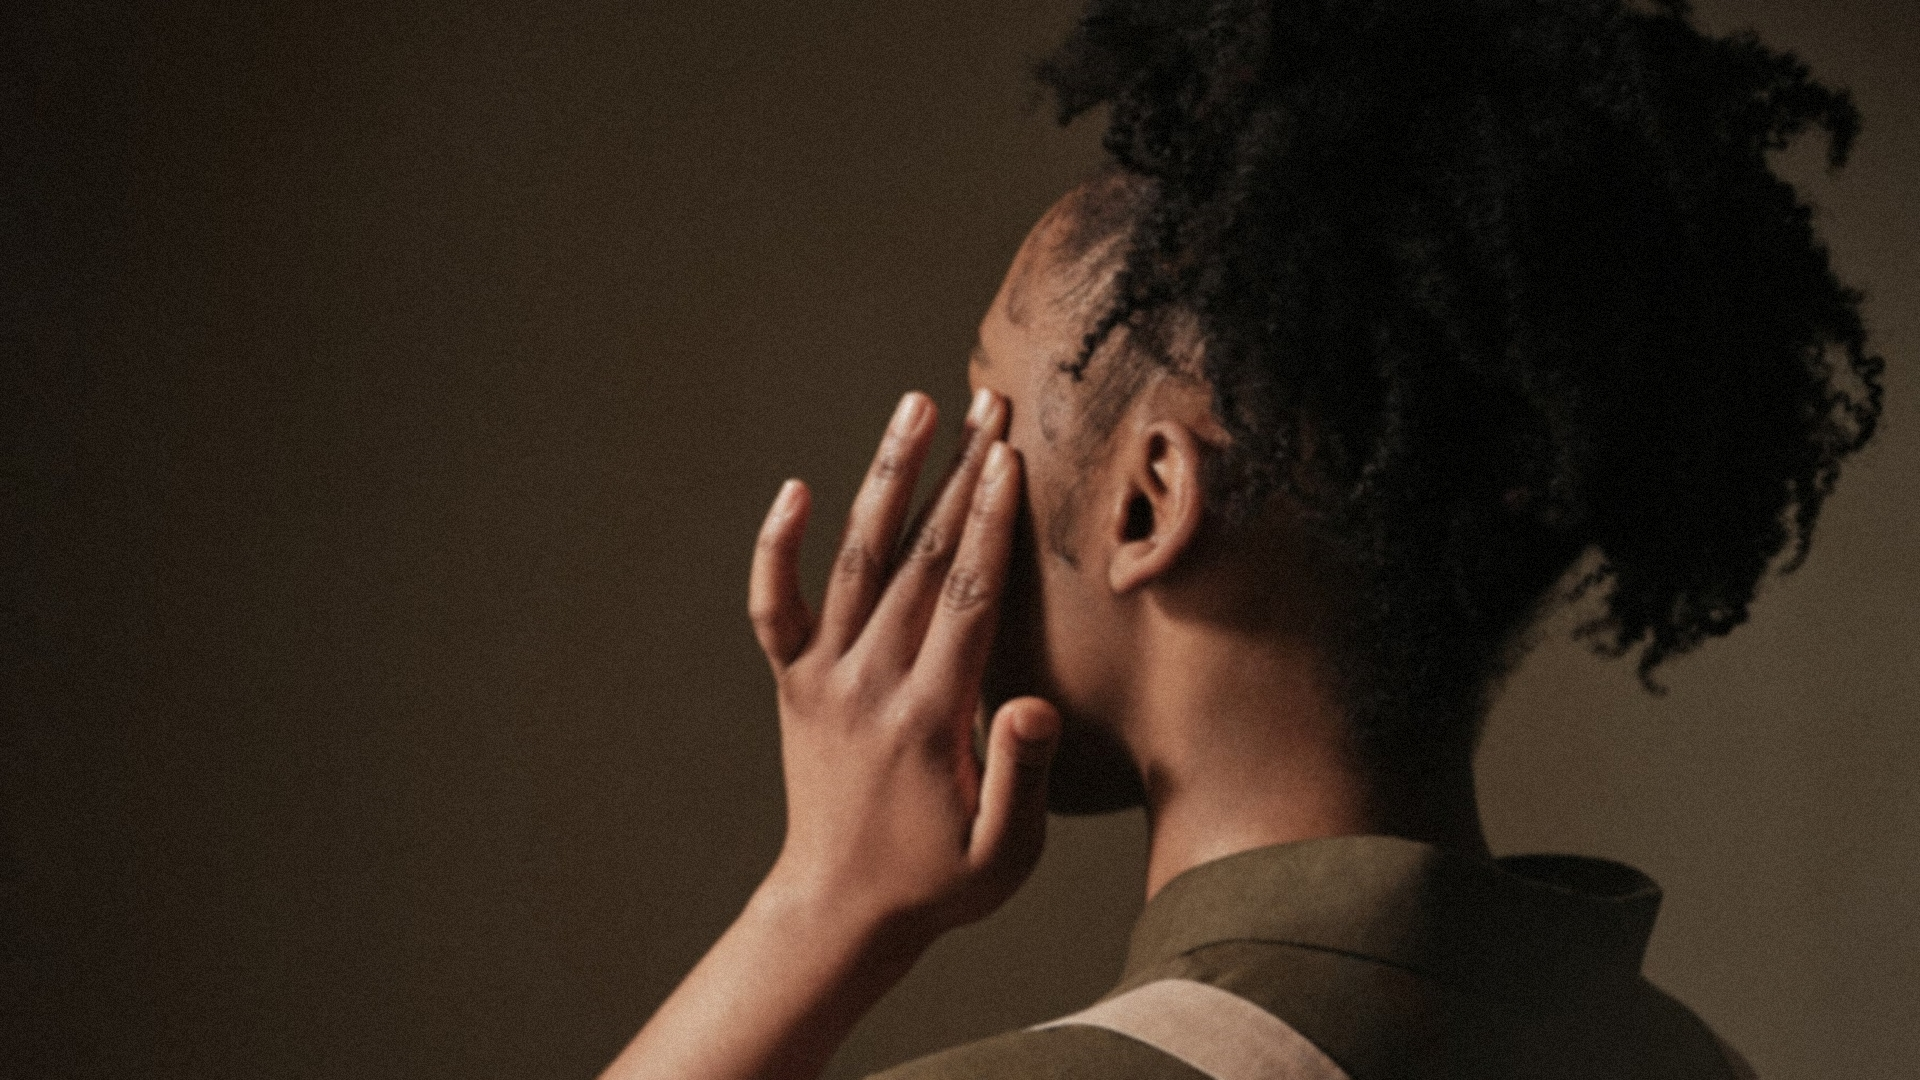
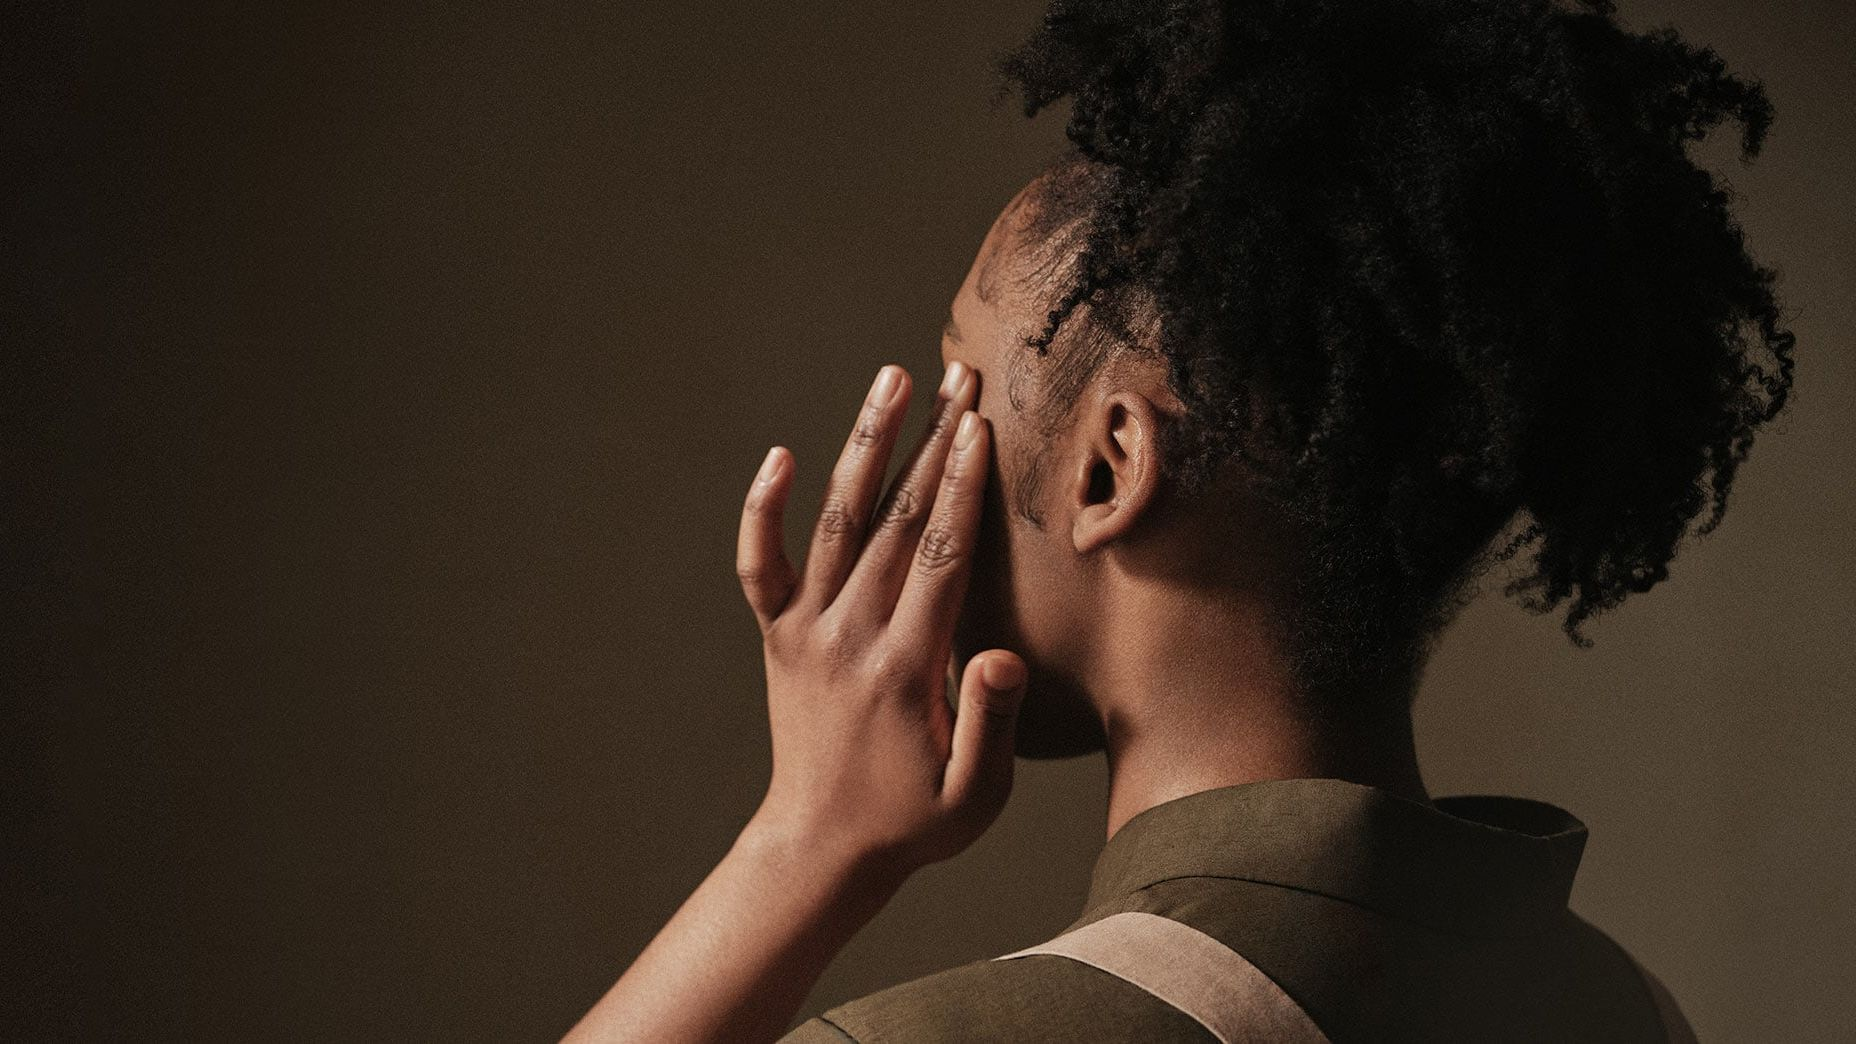
Old-03-Jun

Changed region(s): [[0.2812, 0.0307, 1.0, 1.0], [0.875, 0.9195, 0.9062, 0.9808], [0.8438, 0.0, 0.9062, 0.0307]]

diff --git a/Source/static/css/home.css b/Source/static/css/home.css
@@ -5,7 +5,7 @@
 
 html, body, main {
   font-family: 'Sohne-Buch', Roboto,system-ui, Segoe UI, Tahoma, Geneva, Verdana, sans-serif;
-  background-image: url("../images/bg/OrishaColor.jpg");
+  background-image: url("../images/bg/Home.jpg");
   background-size: cover;
   background-attachment: fixed;
   height: 100%;
@@ -20,14 +20,28 @@ html, body, main {
   user-select: none;
 }
 
+.noise::before {
+  position: fixed;
+  top: 0;
+  left: 0;
+  width: 100vw;
+  height: 100vh;
+  content: "";
+  opacity: 0.013;  
+  z-index: 1000;
+  pointer-events: none;
+  background: url(../images/bg/noise.gif) center center no-repeat;
+  background-size: cover; 
+}
+
 header{
   font-size: 15px;
-  text-shadow: rgba(0, 0, 0, 0.9) 1px 0 10px; 
+  /* text-shadow: rgba(0, 0, 0, 0.9) 1px 0 10px; 
+  backdrop-filter: blur(10px); */
   
 }
 p{
   text-align: center;
-  text-shadow: rgba(0, 0, 0, 0.9) 1px 0 10px; 
 }
 
 @media (min-width: 60rem) {
@@ -68,7 +82,8 @@ p{
 }
 
 .animationContent{
-  animation: scaleIn 0.5s ease forwards;
+  animation: scaleIn 0.5s ease forwards;   
+  backdrop-filter: blur(5px); 
 }
 
 @keyframes zoomBackground {
@@ -80,10 +95,3 @@ p{
     filter: blur(1px);
   }
 }
-
-/* 
-#conCenter{
-  background-color: rgba(151, 148, 148, 0.39);
-  backdrop-filter: blur(20px);
-  border-radius: 10px;
-} */

diff --git a/Source/static/css/clasy.css b/Source/static/css/clasy.css
@@ -5,7 +5,7 @@
 
 html, body, main {
   font-family: 'Sohne-Buch', Roboto,system-ui, Segoe UI, Tahoma, Geneva, Verdana, sans-serif;
-  background-image: url("../images/bg/HedPhone.jpg");
+  background-image: url("../images/bg/Preview.jpg");
   background-size: cover;
   background-attachment: fixed;
   height: 100%;
@@ -18,6 +18,20 @@ html, body, main {
   background-color: rgb(17, 29, 44);
   animation: zoomBackground 0.5s;
   user-select: none;
+}
+
+.noise::before {
+  position: fixed;
+  top: 0;
+  left: 0;
+  width: 100vw;
+  height: 100vh;
+  content: "";
+  opacity: 0.1;  
+  z-index: 1000;
+  pointer-events: none;
+  background: url(../images/bg/Smoke.gif) center center no-repeat;
+  background-size: cover;
 }
 
 header{

diff --git a/Source/static/css/pred.css b/Source/static/css/pred.css
@@ -19,6 +19,19 @@ html, body, main {
   animation: zoomBackground 0.5s;
   user-select: none;
 }
+.noise::before {
+  position: fixed;
+  top: 0;
+  left: 0;
+  width: 100vw;
+  height: 100vh;
+  content: "";
+  opacity: 0.1;  
+  z-index: 1000;
+  pointer-events: none;
+  background: url(../images/bg/Smoke.gif) center center no-repeat;
+  background-size: cover;
+}
 
 header{
   font-size: 15px;

diff --git a/Source/templates/prediction.html b/Source/templates/prediction.html
@@ -13,7 +13,7 @@
   <title>Music Genre Classification Using Convolutional Neural Network</title>
 </head>
 
-  <body>
+  <body class="noise">
 
       <header class="p-3 animationContent">
         <ul class="nav justify-content-center">

diff --git a/Source/templates/classify.html b/Source/templates/classify.html
@@ -16,7 +16,7 @@
 
   <body>
 
-      <main> 
+      <main class="noise"> 
         <header class="p-3 animationContent">
           <ul class="nav justify-content-center">
             <li class="nav-item" id="home">

diff --git a/Source/templates/home.html b/Source/templates/home.html
@@ -17,7 +17,7 @@
 
   <body>
 
-      <main>
+      <main class="noise">
 
         <header class="p-3 animationContent">
           <ul class="nav justify-content-center">
